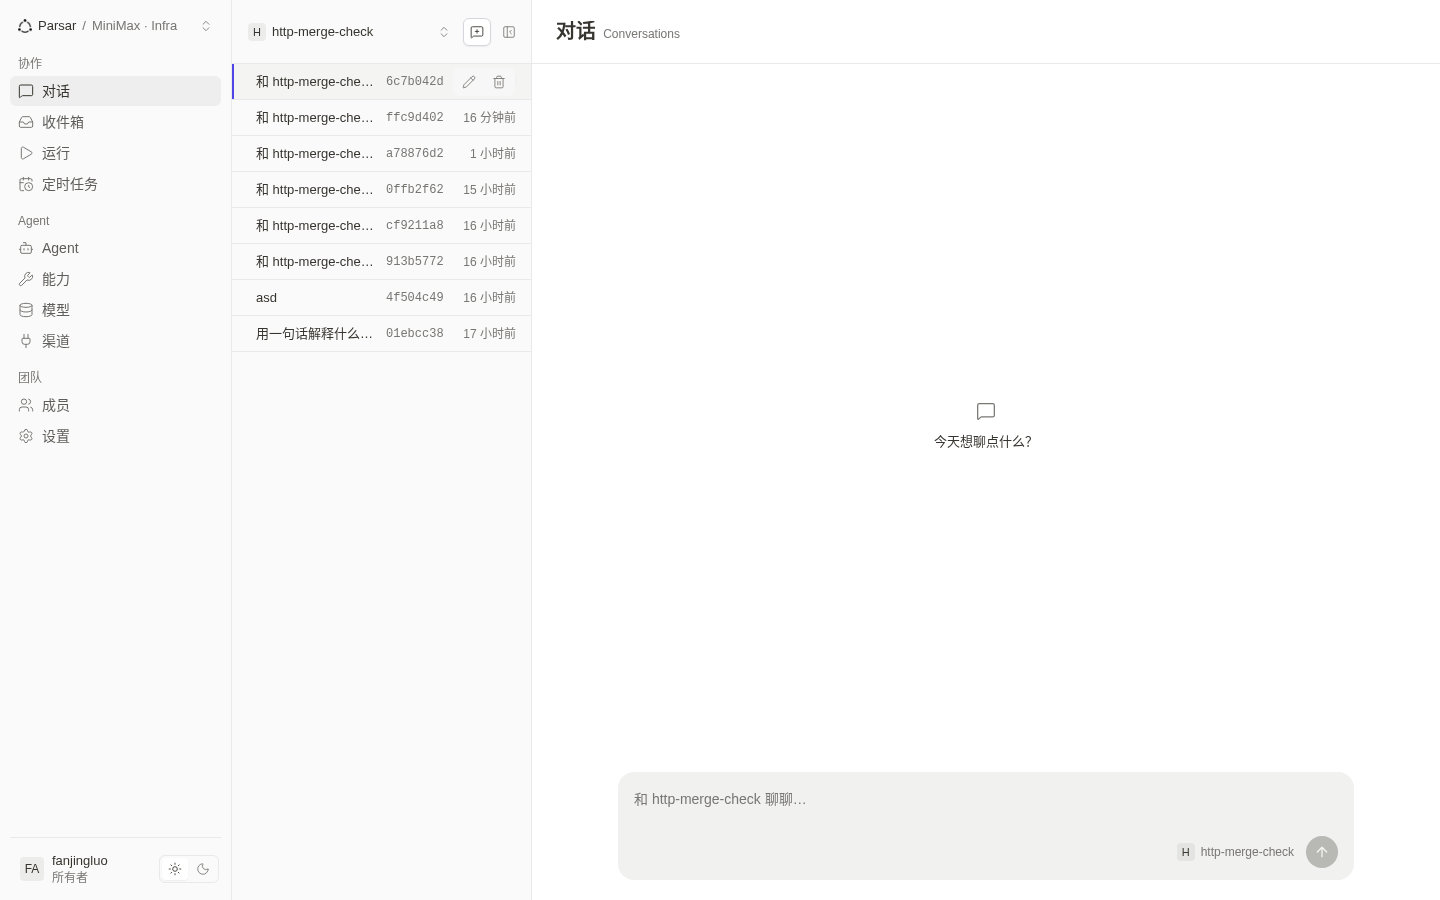
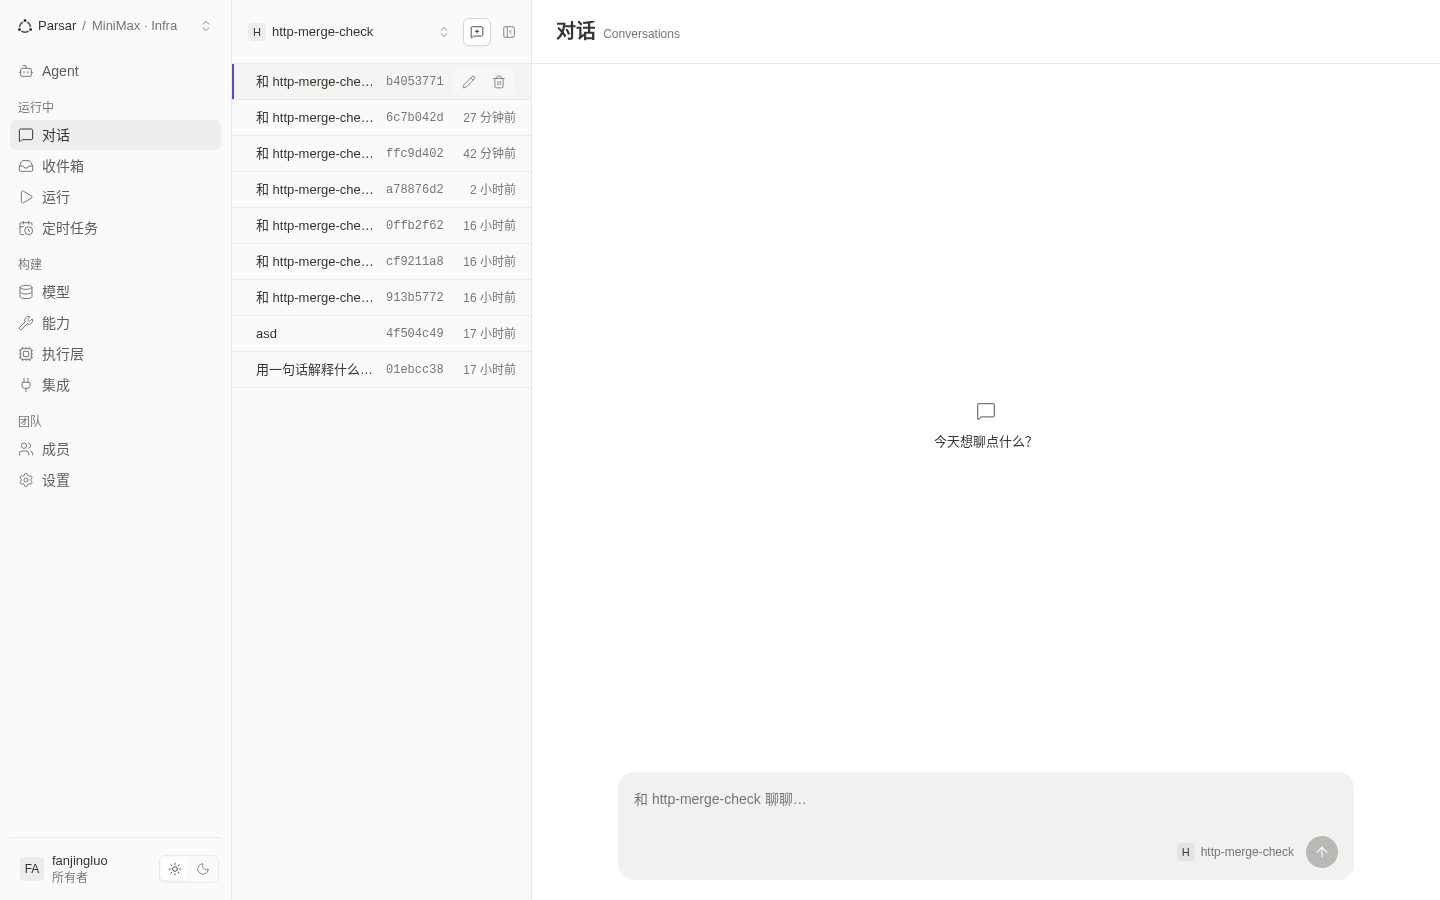
feat(web): the sidebar says the Agent is the first-class object
The console is a platform for making agents, so the sidebar should read that
way. It did not: 能力, 模型 and 集成 sat as siblings of Agent when they are
the things an Agent is assembled from.

  Agent                              alone, above the groups
  运行中   对话 收件箱 运行 定时任务    what agents are doing
  构建     模型 能力 执行层 集成        what an agent is made of
  团队     成员 设置

执行层 comes out of Settings and into Build. It had been a settings tab,
which meant every settings-family page rendered a control for it — and since
the strip renders on each of them, five unrelated pages fired a `/sandboxes`
request they had no use for. The crawl goes from 9/15 to 14/15 clean on that
alone; the one remaining failure is the runtime page itself, where the 503 is
the real unwired capability.

The row markup moves into a shared `NavRow` so the standalone Agent row and
the grouped rows are one implementation rather than two.

Verified: 15/15 views crawl with zero page errors.

diff --git a/apps/web/src/components/layout/AdminLayout.tsx b/apps/web/src/components/layout/AdminLayout.tsx
@@ -10,6 +10,7 @@ import {
   Bot,
   Wrench,
   Database,
+  Cpu,
   Plug,
   Users,
   Settings,
@@ -56,9 +57,52 @@ interface MenuGroup {
   items: MenuItem[]
 }
 
+/** One sidebar row: 30px, icon then label, pressed tint when it is the view. */
+function NavRow({ item, activeMenu, onNavigate }: {
+  item: MenuItem
+  activeMenu?: string
+  onNavigate: (view: AdminView) => void
+}) {
+  const { t } = useTranslation("common")
+  const Icon = item.icon
+  const isActive = activeMenu === item.id
+  return (
+    <li>
+      <button
+        type="button"
+        onClick={() => onNavigate(item.id)}
+        aria-current={isActive ? "page" : undefined}
+        className={cn(
+          "flex h-[30px] w-full items-center gap-2 rounded-md px-2 text-left text-base transition-colors focus-visible:outline-none focus-visible:ring-2 focus-visible:ring-accent/40",
+          isActive ? "app-pressed font-medium text-fg" : "text-inherit hover:app-hover",
+        )}
+      >
+        <Icon
+          className={cn("h-4 w-4 shrink-0", isActive ? "text-fg" : "text-fg-muted")}
+          strokeWidth={1.5}
+          aria-hidden="true"
+        />
+        <span className="min-w-0 flex-1 truncate">{t(`nav.items.${item.itemKey}` as never)}</span>
+        {item.badge !== undefined && (
+          <span className="app-tile rounded-full px-1.5 text-xs tabular-nums text-fg-muted">
+            {item.badge}
+          </span>
+        )}
+      </button>
+    </li>
+  )
+}
+
+/**
+ * The Agent is the product's first-class object, so it stands alone above the
+ * groups rather than sitting as a sibling of the things it is assembled from.
+ */
+const primaryItem: MenuItem = { id: "agents", itemKey: "agents", icon: Bot }
+
 const menuGroups: MenuGroup[] = [
   {
-    groupKey: "collaborationGroup",
+    // What agents are doing right now.
+    groupKey: "activityGroup",
     items: [
       { id: "conversations", itemKey: "conversations", icon: MessageSquare },
       { id: "approvals", itemKey: "approvals", icon: Inbox },
@@ -67,11 +111,13 @@ const menuGroups: MenuGroup[] = [
     ],
   },
   {
-    groupKey: "agentGroup",
+    // What an agent is assembled from: its brain, its skills, where it runs,
+    // and the platforms it can be let out on.
+    groupKey: "buildGroup",
     items: [
-      { id: "agents", itemKey: "agents", icon: Bot },
-      { id: "capabilities", itemKey: "capabilities", icon: Wrench },
       { id: "models", itemKey: "models", icon: Database },
+      { id: "capabilities", itemKey: "capabilities", icon: Wrench },
+      { id: "runtime", itemKey: "runtime", icon: Cpu },
       { id: "connections", itemKey: "connections", icon: Plug },
     ],
   },
@@ -119,45 +165,21 @@ export function AdminLayout({
         <aside className="app-sidebar flex w-full flex-col overflow-y-auto border-r border-line bg-surface-subtle p-2.5">
           <WorkspaceSwitcher />
 
+          <nav aria-label={t("nav.items.agents")} className="pt-3.5">
+            <ul className="flex flex-col gap-px">
+              <NavRow item={primaryItem} activeMenu={activeMenu} onNavigate={navigate} />
+            </ul>
+          </nav>
+
           {menuGroups.map((group) => (
             <nav key={group.groupKey} aria-label={t(`nav.${group.groupKey}` as never)}>
               <div className="px-2 pb-1 pt-3.5 text-xs text-fg-muted">
                 {t(`nav.${group.groupKey}` as never)}
               </div>
               <ul className="flex flex-col gap-px">
-                {group.items.map((item) => {
-                  const Icon = item.icon
-                  const isActive = activeMenu === item.id
-                  return (
-                    <li key={item.id}>
-                      <button
-                        type="button"
-                        onClick={() => navigate(item.id)}
-                        aria-current={isActive ? "page" : undefined}
-                        className={cn(
-                          "flex h-[30px] w-full items-center gap-2 rounded-md px-2 text-left text-base transition-colors focus-visible:outline-none focus-visible:ring-2 focus-visible:ring-accent/40",
-                          isActive
-                            ? "app-pressed font-medium text-fg"
-                            : "text-inherit hover:app-hover",
-                        )}
-                      >
-                        <Icon
-                          className={cn("h-4 w-4 shrink-0", isActive ? "text-fg" : "text-fg-muted")}
-                          strokeWidth={1.5}
-                          aria-hidden="true"
-                        />
-                        <span className="min-w-0 flex-1 truncate">
-                          {t(`nav.items.${item.itemKey}` as never)}
-                        </span>
-                        {item.badge !== undefined && (
-                          <span className="app-tile rounded-full px-1.5 text-xs tabular-nums text-fg-muted">
-                            {item.badge}
-                          </span>
-                        )}
-                      </button>
-                    </li>
-                  )
-                })}
+                {group.items.map((item) => (
+                  <NavRow key={item.id} item={item} activeMenu={activeMenu} onNavigate={navigate} />
+                ))}
               </ul>
             </nav>
           ))}

diff --git a/apps/web/src/pages/admin/RuntimePage.tsx b/apps/web/src/pages/admin/RuntimePage.tsx
@@ -4,7 +4,6 @@ import { AlertTriangle, Loader2, Skull, Zap } from "lucide-react"
 
 import { AdminLayout } from "../../components/layout/AdminLayout"
 import { PageHeader } from "../../components/layout/PageHeader"
-import { SettingsTabs } from "../../components/layout/SettingsTabs"
 import { ConnectivityResultPanel } from "../../components/runtime/ConnectivityResultPanel"
 import { RuntimeCredentialCard } from "../../components/runtime/RuntimeCredentialCard"
 import { RuntimeStatusBanner } from "../../components/runtime/RuntimeStatusBanner"
@@ -191,21 +190,18 @@ export function RuntimePage() {
   }
 
   return (
-    <AdminLayout activeMenu="settings" fullBleed>
+    <AdminLayout activeMenu="runtime" fullBleed>
       <Tabs value={tab} onValueChange={(v) => setTab(v as RuntimeTab)} className="flex min-h-0 flex-1 flex-col">
         <PageHeader
           className="static mx-0 mb-0"
           title={t("runtime.page.title")}
           subtitleFor="runtime.page.title"
           action={
-            <>
-              <SettingsTabs active="runtime" />
-              {tab === "local_device" && workspaceID && (
-                <Button onClick={() => setPairOpen(true)} data-testid="agent-daemon-pair-button">
-                  {t("runtime.agentDaemon.actions.pair", { defaultValue: "Pair a new device" })}
-                </Button>
-              )}
-            </>
+            tab === "local_device" && workspaceID ? (
+              <Button onClick={() => setPairOpen(true)} data-testid="agent-daemon-pair-button">
+                {t("runtime.agentDaemon.actions.pair", { defaultValue: "Pair a new device" })}
+              </Button>
+            ) : undefined
           }
         />
         <div className="flex h-10 shrink-0 items-center border-b border-line px-4">

diff --git a/apps/web/src/pages/admin/RuntimeDetailPage.tsx b/apps/web/src/pages/admin/RuntimeDetailPage.tsx
@@ -3,7 +3,6 @@ import { ArrowLeft, Box } from "lucide-react"
 
 import { AdminLayout } from "../../components/layout/AdminLayout"
 import { PageHeader } from "../../components/layout/PageHeader"
-import { SettingsTabs } from "../../components/layout/SettingsTabs"
 import { Button } from "../../components/ui/button"
 import { EmptyState } from "../../components/ui/empty-state"
 import { ManagedBadge } from "../../components/ui/managed-badge"
@@ -19,7 +18,7 @@ export function RuntimeDetailPage({ id }: RuntimeDetailPageProps) {
   const { t } = useTranslation("admin")
   const { navigate } = useAdminView()
   return (
-    <AdminLayout activeMenu="settings">
+    <AdminLayout activeMenu="runtime">
       <PageHeader
         title={t("runtime.detail.placeholderTitle")}
         backLink={
@@ -27,7 +26,6 @@ export function RuntimeDetailPage({ id }: RuntimeDetailPageProps) {
             <ArrowLeft strokeWidth={1.5} aria-hidden="true" />
           </Button>
         }
-        action={<SettingsTabs active="runtime" />}
       />
       <div data-testid="runtime-detail-placeholder">
         <EmptyState

diff --git a/apps/web/src/components/layout/SettingsTabs.tsx b/apps/web/src/components/layout/SettingsTabs.tsx
@@ -6,7 +6,6 @@ import { Tabs, TabsList, TabsTrigger } from "../ui/tabs"
 export type SettingsTab =
   | "general"
   | "credentials"
-  | "runtime"
   | "connectors"
   | "usage"
   | "audit"
@@ -15,7 +14,6 @@ export type SettingsTab =
 const TAB_TO_VIEW: Record<SettingsTab, AdminView> = {
   general: "settings",
   credentials: "secrets",
-  runtime: "runtime",
   connectors: "connectors",
   usage: "usage",
   audit: "audit",
@@ -24,7 +22,6 @@ const TAB_TO_VIEW: Record<SettingsTab, AdminView> = {
 const TABS: SettingsTab[] = [
   "general",
   "credentials",
-  "runtime",
   "connectors",
   "usage",
   "audit",

diff --git a/apps/web/DESIGN.md b/apps/web/DESIGN.md
@@ -512,6 +512,8 @@ Spacing rhythm: 2 / 4 / 8 / 10 / 12 / 16 / 24. Tight inside a group, generous be
 
 ### Product-truth notes
 - The approval bar ships **deny + allow-once** only. The API has no session-scoped approval, so a third button would name a decision the product cannot make. This is a product fact recorded here so it is not read as a missing state.
+- **The Agent is the first-class object; the sidebar says so.** It stands alone above the groups rather than sitting as a sibling of the things it is assembled from. Below it, **运行中 / Activity** is what agents are doing (conversations, inbox, runs, schedules) and **构建 / Build** is what an agent is made of — its model, its capabilities, where it runs (执行层), and the platforms it can be let out on (集成). A thing that only exists to configure an Agent belongs in Build, never beside the Agent.
+- **执行层 lives in Build, not in Settings.** It was a settings tab, which made every settings-family page render a control for it — and, because the tab strip is rendered on each of them, made five unrelated pages fire a `/sandboxes` request they had no use for. One control, one home.
 - **Parsar has two ends, and each gets its own door.** Upward it connects to the platforms people are on — Feishu, Slack, Discord, Teams — which receive events; that is **集成 / Integrations**, in the sidebar, backed by `workspace_im_connectors`. Downward it connects to the agents themselves — `agent_daemon`, `http`, `a2a` — which Parsar *calls* (`AgentConnector.Prompt`); that is **Agent 连接器 / Agent connectors**, under Settings, backed by `/connector-usage`. They are not two views of one thing and must never be merged. The UI once named them 连接 and 连接器, one character apart, because it dropped the qualifiers the server already carries (`workspace_im_` and `Agent`); the names above put them back. The bare word **连接器 / Connectors** belongs to the MCP directory, which is where the industry uses it bare. **集成** rather than **渠道** because the products this console is modelled on — Multica and Linear — both call this Integrations; 渠道 / Channels is the help-desk convention (Intercom, Zendesk), and Parsar is an agent console, not a support desk.
 - The turn-nav rail shipped with its full motion vocabulary from the first commit; an earlier review that scored it as static was reading a module a stray NUL byte made ungreppable. The byte is gone; the behaviour above is the shipped behaviour.
 
